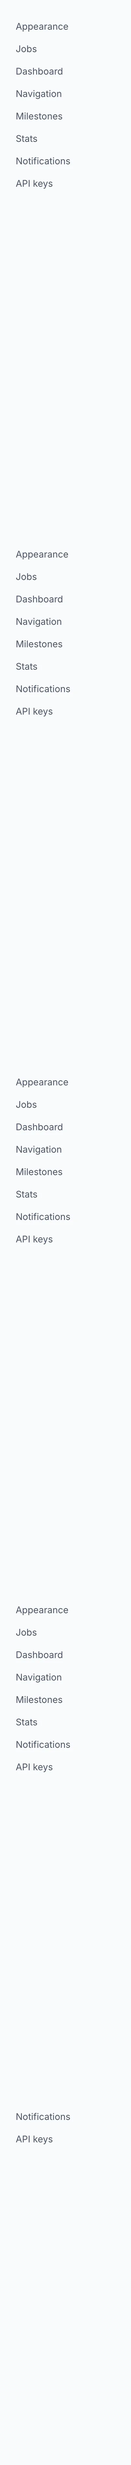
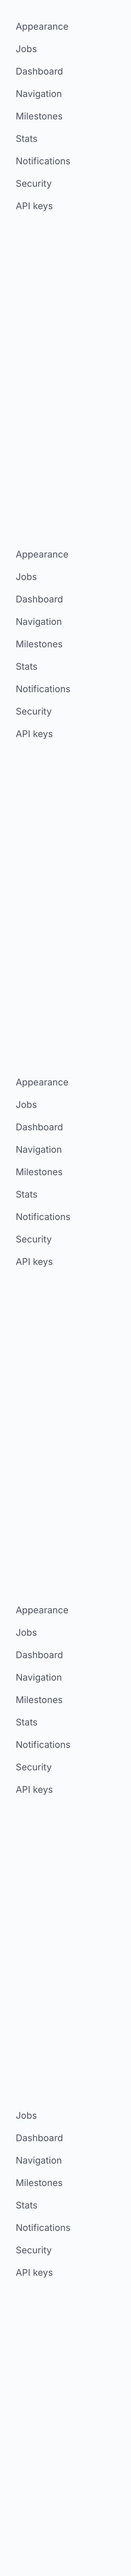
fix(frontend): change your password from Settings (JOB-404) (#591)
## Summary

- **Settings > Security > Change password** (every role). The button
calls `keycloak.login({ action: 'UPDATE_PASSWORD', redirectUri:
<origin>/settings, locale })`, Keycloak's own application-initiated
action, so OpsClear never handles a password. The Keycloak page opens in
the user's app language.
- **Coming back:** Keycloak adds
`kc_action_status=success|cancelled|error` to the redirect (in the
fragment, because keycloak-js uses `response_mode=fragment`).
keycloak-js reads it during `init()`, reports it through
`onActionUpdate` and strips it from the URL itself. `AuthProvider`
registers the handler before `init()` (`src/auth/passwordChange.ts`).
Settings shows the result once ("Your password has been changed." /
"Password change cancelled. Your password stays the same." / an error
message) and scrolls to the section. A reload doesn't show it again.
- **Keycloak realm:** no change needed. `UPDATE_PASSWORD` is a default
required action, enabled in every realm. I checked it's enabled on the
local realm through the Admin API. **Prod Keycloak needs no manual realm
change.**
- **Keycloak theme:** the opsclear `login-update-password.ftl` already
renders the AIA page with **Submit** and **Cancel** in en and sr. I
checked this against local Keycloak in both locales, and Cancel returns
`kc_action_status=cancelled` with a code. The validation errors and the
re-authentication prompt fell back to English in sr, because Keycloak
[…]

diff --git a/frontend/cypress/e2e/user-settings/change-password.cy.ts b/frontend/cypress/e2e/user-settings/change-password.cy.ts
@@ -1,0 +1,112 @@
+// JOB-404: Settings > Security > Change password opens Keycloak's own update-password page
+// (the UPDATE_PASSWORD application-initiated action), so OpsClear never handles the password.
+// Real Keycloak UI throughout, like the Auth Flows suite: the user signs in through the
+// hosted login page first, so Keycloak has a fresh session and goes straight to the
+// update-password form. Each test uses a throwaway user, so no seeded password changes.
+//
+// The new password is checked with a password-grant login (the request cy.loginAs() makes),
+// as in auth-flows/password-reset.cy.ts: a second UI login would need a logout, and with a
+// live session Keycloak's logout endpoint stops on a confirmation page.
+//
+// Not covered: the re-authentication prompt Keycloak shows when the sign-in is more than
+// 5 minutes old (Keycloak's own behaviour, needs a real wait), and the `error` outcome
+// (Keycloak only returns it when the action can't run, which the realm doesn't allow to set up).
+
+import { KEYCLOAK, createOrgWithSubscription, uniqueEmail, uniqueSlug } from '../../support/orgApi';
+
+const OLD_PASSWORD = 'password123';
+const NEW_PASSWORD = 'changed-password-456';
+
+/** Password-grant login against the realm; returns the response so a test can check the status. */
+function passwordLogin(email: string, password: string) {
+  return cy.request({
+    method: 'POST',
+    url: `${KEYCLOAK}/realms/opsclear/protocol/openid-connect/token`,
+    form: true,
+    failOnStatusCode: false,
+    body: { client_id: 'opsclear-frontend', grant_type: 'password', username: email, password, scope: 'openid' },
+  });
+}
+
+/** A throwaway user in its own subscribed org (Settings sits behind the org gate). */
+function createUser(label: string) {
+  const email = uniqueEmail(label);
+  cy.createKeycloakUser(email, 'E2E', 'Password', OLD_PASSWORD);
+  createOrgWithSubscription(email, 'Password Corp', uniqueSlug());
+  return cy.wrap(email);
+}
+
+/** Signs in through Keycloak's hosted login page and opens Settings. */
+function signInAndOpenSettings(email: string) {
+  cy.visit('/');
+  cy.contains('Log in').click();
+  cy.origin(KEYCLOAK, { args: { email, password: OLD_PASSWORD } }, ({ email, password }) => {
+    cy.get('#username').type(email);
+    cy.get('#password').type(password);
+    cy.get('#kc-login').click();
+  });
+  cy.url().should('not.include', 'localhost:8180');
+  cy.visit('/settings');
+  cy.get('#security').should('contain.text', 'Security');
+}
+
+/** Back on Settings, with Keycloak's `kc_action_status` already removed from the URL. */
+function assertBackOnSettings() {
+  cy.location('pathname', { timeout: 10000 }).should('eq', '/settings');
+  cy.location('search').should('not.include', 'kc_action_status');
+  cy.location('hash').should('not.include', 'kc_action_status');
+}
+
+describe('Change password from Settings', () => {
+  it('changes the password on Keycloak\'s page, confirms it on Settings, and the new password works', { tags: '@smoke' }, () => {
+    createUser('pw-change').then((email) => {
+      signInAndOpenSettings(email);
+
+      cy.contains('button', 'Change password').click();
+      cy.origin(KEYCLOAK, { args: { newPassword: NEW_PASSWORD } }, ({ newPassword }) => {
+        cy.get('h1').should('contain.text', 'Update password');
+        cy.get('#password-new').type(newPassword);
+        cy.get('#password-confirm').type(newPassword);
+        cy.get('#kc-form-buttons').find('input[type=submit]').click();
+        cy.url().should('not.include', 'localhost:8180');
+      });
+
+      assertBackOnSettings();
+      cy.get('[data-testid="password-change-status"]')
+        .should('be.visible')
+        .and('have.text', 'Your password has been changed.');
+
+      passwordLogin(email, NEW_PASSWORD).its('status').should('eq', 200);
+      passwordLogin(email, OLD_PASSWORD).its('status').should('eq', 401);
+
+      // Shown once: a reload doesn't bring the message back.
+      cy.reload();
+      cy.get('#security').should('be.visible');
+      cy.get('[data-testid="password-change-status"]').should('not.exist');
+
+      cy.deleteKeycloakUser(email);
+    });
+  });
+
+  it('cancelling on Keycloak\'s page returns to Settings and keeps the old password', () => {
+    createUser('pw-cancel').then((email) => {
+      signInAndOpenSettings(email);
+
+      cy.contains('button', 'Change password').click();
+      cy.origin(KEYCLOAK, () => {
+        cy.get('#password-new').should('be.visible');
+        cy.get('button[name="cancel-aia"]').click();
+        cy.url().should('not.include', 'localhost:8180');
+      });
+
+      assertBackOnSettings();
+      cy.get('[data-testid="password-change-status"]')
+        .should('be.visible')
+        .and('have.text', 'Password change cancelled. Your password stays the same.');
+
+      passwordLogin(email, OLD_PASSWORD).its('status').should('eq', 200);
+
+      cy.deleteKeycloakUser(email);
+    });
+  });
+});

diff --git a/frontend/src/features/settings/SettingsPage.tsx b/frontend/src/features/settings/SettingsPage.tsx
@@ -1,13 +1,19 @@
+import { useEffect, useState } from 'react';
 import type { MouseEvent, ReactNode } from 'react';
 import { useTranslation } from 'react-i18next';
 import ApiKeySection from './ApiKeySection';
 import NotificationTypeSettings from './NotificationTypeSettings';
+import Button from '../../components/Button';
 import UpgradeCard from '../../components/UpgradeCard';
 import { usePreferences } from '../../hooks/usePreferences';
 import { useCurrentOrg } from '../org/OrgContext';
 import { useOrgMembers } from '../org/useOrganisation';
 import { useProjectList } from '../projects/useProjects';
 import { useAuth } from '../../auth/AuthContext';
+import {
+  clearPasswordChangeStatus, peekPasswordChangeStatus, startPasswordChange,
+} from '../../auth/passwordChange';
+import type { PasswordChangeStatus } from '../../auth/passwordChange';
 import type {
   Theme, Locale, ViewMode, AccordionState, StatusTab,
   SortOrder, DeadlineFormat, ProjectPage, ProgressFormat, DateFormat, RowDensity,
@@ -92,7 +98,7 @@ function SettingRow({ label, description, children }: SettingRowProps) {
 // ---- sections (ADR-0061) ----
 
 // Page order.
-const SECTION_IDS = ['appearance', 'jobs', 'dashboard', 'navigation', 'milestones', 'stats', 'notifications', 'api-keys'] as const;
+const SECTION_IDS = ['appearance', 'jobs', 'dashboard', 'navigation', 'milestones', 'stats', 'notifications', 'security', 'api-keys'] as const;
 type SectionId = (typeof SECTION_IDS)[number];
 
 const SECTION_LABEL_KEYS: Record<SectionId, string> = {
@@ -103,6 +109,7 @@ const SECTION_LABEL_KEYS: Record<SectionId, string> = {
   milestones: 'milestones',
   stats: 'stats',
   notifications: 'notifications',
+  security: 'security',
   'api-keys': 'apiKeys',
 };
 
@@ -160,6 +167,55 @@ function SectionIndex({ sections, label }: SectionIndexProps) {
         ))}
       </ul>
     </nav>
+  );
+}
+
+// ---- security (JOB-404) ----
+
+const PASSWORD_STATUS_STYLES: Record<PasswordChangeStatus, string> = {
+  success: 'bg-green-50 text-green-800 dark:bg-green-900/30 dark:text-green-300',
+  cancelled: 'bg-gray-50 text-gray-700 dark:bg-gray-900/40 dark:text-gray-300',
+  error: 'bg-red-50 text-red-700 dark:bg-red-900/30 dark:text-red-300',
+};
+
+/**
+ * Change password runs on Keycloak's own update-password page, so OpsClear never handles the
+ * password. Coming back, keycloak-js reports the outcome (and removes it from the URL); it is
+ * shown here once.
+ */
+function SecuritySection({ locale }: { readonly locale: string }) {
+  const { t } = useTranslation(['approvalsDashboardSettingsLanding']);
+  const [status] = useState<PasswordChangeStatus | null>(peekPasswordChangeStatus);
+  const [redirecting, setRedirecting] = useState(false);
+
+  useEffect(() => {
+    if (!status) return;
+    clearPasswordChangeStatus();
+    document.getElementById('security')?.scrollIntoView({ block: 'start' });
+  }, [status]);
+
+  const changePassword = () => {
+    setRedirecting(true);
+    startPasswordChange(locale).catch(() => setRedirecting(false));
+  };
+
+  return (
+    <SettingsSection id="security" heading={t('settings.sections.security')}>
+      {status && (
+        <p
+          role={status === 'error' ? 'alert' : 'status'}
+          data-testid="password-change-status"
+          className={`px-5 py-3 text-sm rounded-t-xl ${PASSWORD_STATUS_STYLES[status]}`}
+        >
+          {t(`settings.security.password.status.${status}`)}
+        </p>
+      )}
+      <SettingRow label={t('settings.security.password.label')} description={t('settings.security.password.description')}>
+        <Button variant="secondary" size="sm" loading={redirecting} onClick={changePassword}>
+          {t('settings.security.password.change')}
+        </Button>
+      </SettingRow>
+    </SettingsSection>
   );
 }
 
@@ -451,6 +507,8 @@ export default function SettingsPage() {
             </SettingRow>
             <NotificationTypeSettings />
           </SettingsSection>
+
+          <SecuritySection locale={prefs.locale} />
 
           {/* ApiKeySection and UpgradeCard bring their own heading. */}
           <div id="api-keys" className="scroll-mt-6">

diff --git a/frontend/src/auth/passwordChange.test.ts b/frontend/src/auth/passwordChange.test.ts
@@ -1,0 +1,58 @@
+import { afterEach, describe, expect, it, vi } from 'vitest';
+
+const login = vi.fn<(options: unknown) => Promise<void>>(() => Promise.resolve());
+vi.mock('./keycloak', () => ({ default: { login: (options: unknown) => login(options) } }));
+
+const {
+  clearPasswordChangeStatus,
+  peekPasswordChangeStatus,
+  recordAccountAction,
+  startPasswordChange,
+} = await import('./passwordChange');
+
+afterEach(() => {
+  clearPasswordChangeStatus();
+  login.mockClear();
+  vi.unstubAllGlobals();
+});
+
+describe('password change status', () => {
+  it('is empty until Keycloak reports the update-password action', () => {
+    expect(peekPasswordChangeStatus()).toBeNull();
+  });
+
+  it.each(['success', 'cancelled', 'error'] as const)('remembers a %s update-password result', (status) => {
+    recordAccountAction(status, 'UPDATE_PASSWORD');
+    expect(peekPasswordChangeStatus()).toBe(status);
+  });
+
+  it('takes a status without an action as the password result (Keycloak 24 sends no kc_action)', () => {
+    recordAccountAction('cancelled');
+    expect(peekPasswordChangeStatus()).toBe('cancelled');
+  });
+
+  it('ignores other named Keycloak actions', () => {
+    recordAccountAction('success', 'UPDATE_PROFILE');
+    expect(peekPasswordChangeStatus()).toBeNull();
+  });
+
+  it('keeps the result until it is cleared', () => {
+    recordAccountAction('success', 'UPDATE_PASSWORD');
+    expect(peekPasswordChangeStatus()).toBe('success');
+    expect(peekPasswordChangeStatus()).toBe('success');
+    clearPasswordChangeStatus();
+    expect(peekPasswordChangeStatus()).toBeNull();
+  });
+});
+
+describe('startPasswordChange', () => {
+  it('asks Keycloak for the update-password action, returning to Settings in the given language', async () => {
+    vi.stubGlobal('window', { location: { origin: 'https://app.example.com' } });
+    await startPasswordChange('sr');
+    expect(login).toHaveBeenCalledWith({
+      action: 'UPDATE_PASSWORD',
+      redirectUri: 'https://app.example.com/settings',
+      locale: 'sr',
+    });
+  });
+});

diff --git a/frontend/src/auth/passwordChange.ts b/frontend/src/auth/passwordChange.ts
@@ -1,0 +1,46 @@
+import keycloak from './keycloak';
+
+// JOB-404: changing the password runs Keycloak's own UPDATE_PASSWORD application-initiated
+// action, so OpsClear never sees a password. Keycloak sends the browser back with
+// `kc_action_status` (success, cancelled or error) in the redirect; keycloak-js reads it
+// during init, reports it through `onActionUpdate` and strips it from the URL. AuthProvider
+// registers `recordAccountAction` before init, and the Settings page reads the result once.
+
+export const UPDATE_PASSWORD_ACTION = 'UPDATE_PASSWORD';
+
+export type PasswordChangeStatus = 'success' | 'cancelled' | 'error';
+
+let pendingStatus: PasswordChangeStatus | null = null;
+
+/**
+ * `keycloak.onActionUpdate` handler: remembers the outcome of a password change.
+ *
+ * Keycloak 24 (our version) sends only `kc_action_status`, not `kc_action`, so `action` is
+ * undefined there. Update password is the only application-initiated action OpsClear starts,
+ * so a status without an action is taken as its result. Another named action is ignored.
+ */
+export function recordAccountAction(status: PasswordChangeStatus, action?: string): void {
+  if (action === undefined || action === UPDATE_PASSWORD_ACTION) pendingStatus = status;
+}
+
+/** The outcome of the password change the user just came back from, if any. */
+export function peekPasswordChangeStatus(): PasswordChangeStatus | null {
+  return pendingStatus;
+}
+
+/** Forgets the outcome once the page has shown it, so it isn't shown again. */
+export function clearPasswordChangeStatus(): void {
+  pendingStatus = null;
+}
+
+/** Path Keycloak sends the user back to after the password change. */
+export const PASSWORD_CHANGE_RETURN_PATH = '/settings';
+
+/** Opens Keycloak's update-password page in `locale`, returning to Settings afterwards. */
+export function startPasswordChange(locale: string): Promise<void> {
+  return keycloak.login({
+    action: UPDATE_PASSWORD_ACTION,
+    redirectUri: `${window.location.origin}${PASSWORD_CHANGE_RETURN_PATH}`,
+    locale,
+  });
+}

diff --git a/frontend/src/auth/AuthContext.tsx b/frontend/src/auth/AuthContext.tsx
@@ -2,6 +2,7 @@ import { createContext, useContext, useEffect, useState } from 'react';
 import type { ReactNode } from 'react';
 import keycloak from './keycloak';
 import { E2E_TOKEN_KEY, E2E_REFRESH_TOKEN_KEY, E2E_ID_TOKEN_KEY } from './e2eAuth';
+import { recordAccountAction } from './passwordChange';
 
 export interface AuthState {
   ready: boolean;
@@ -56,6 +57,10 @@ export function AuthProvider({ children }: { children: ReactNode }) {
           checkLoginIframe: false,
         }
       : { onLoad: 'check-sso' as const, checkLoginIframe: false };
+
+    // Set before init: init reads Keycloak's redirect back from an account action
+    // (Settings > Change password) and reports its outcome through this callback.
+    keycloak.onActionUpdate = recordAccountAction;
 
     keycloak
       .init(initOptions)

diff --git a/keycloak/README.md b/keycloak/README.md
@@ -26,6 +26,7 @@ This folder contains Keycloak realm configuration for OpsClear.
 | Email verification | On (ADR-0059). Dev and CI mail goes to Mailpit, http://localhost:8025 |
 | Login and email theme | `opsclear` (`themes/opsclear/login`, `themes/opsclear/email`), en and sr |
 | Password policy | Min 8 characters |
+| Change password in the app | **Settings > Security** starts Keycloak's `UPDATE_PASSWORD` required action as an application-initiated action (`kc_action=UPDATE_PASSWORD`). The action is enabled by default in every realm, so the realm export doesn't list it. Page: `themes/opsclear/login/login-update-password.ftl` |
 | Access token lifespan | 5 minutes |
 | Refresh token lifespan | 30 days |
 | Brute force protection | Enabled |
